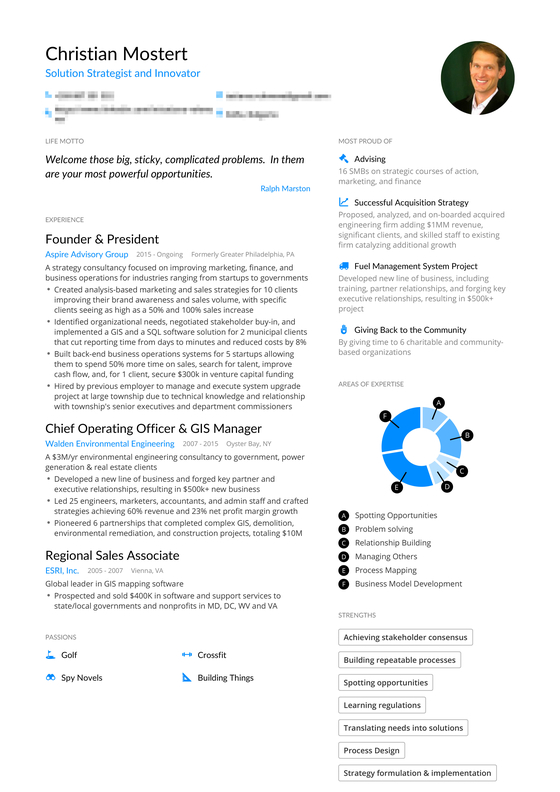
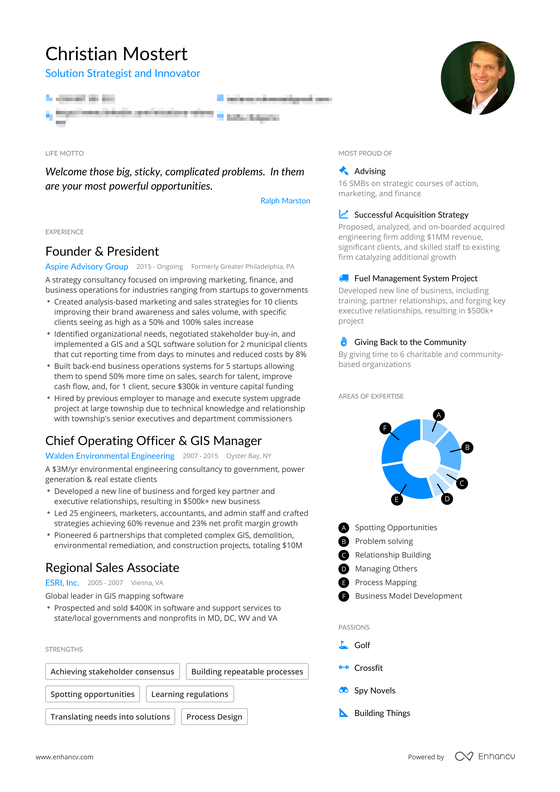
Update HR section and small tweaks

diff --git a/src/pages/successful-resumes.html b/src/pages/successful-resumes.html
@@ -70,7 +70,8 @@ metaImage: "/img/successful-resumes/share-images/sr_share.png"
     <div class="container">
         <div class="row">
             <div class="col-sm-12 text-center m-bottom-6">
-                <h2>What Experts Say</h2>
+                <h2>Expert Feedback on a Real Resume</h2>
+                <p class="experts-section-info">We asked a seasoned HR professional to review the resume of a real Enhancv user. The result was a peek inside her head and great insights regarding what she likes, and dislikes, about resumes.</p>
             </div>
         </div>
         <div class="row experts-say-wrapper">
@@ -136,7 +137,7 @@ metaImage: "/img/successful-resumes/share-images/sr_share.png"
 
                         {{>dot
                          color='#FF0030'
-                         x='45%'
+                         x='70%'
                          y='82%'
                          title=""
                          text="I appreciate this section a lot as it shows Christian’s human side and not just his professional background and achievements."
@@ -146,8 +147,8 @@ metaImage: "/img/successful-resumes/share-images/sr_share.png"
 
                         {{>dot
                          color='#FF0030'
-                         x='13%'
-                         y='94%'
+                         x='25%'
+                         y='96%'
                          title=""
                          text="I'm missing Christian’s educational background which could give me more context around his area of expertise, growth trajectory and network of contacts."
                          containerId='expert-resume'
@@ -186,8 +187,8 @@ metaImage: "/img/successful-resumes/share-images/sr_share.png"
                         Irena Boyadzhieva
                     </h1>
                     <div class="experts-text m-top-2 m-bottom-4">
-                        Professionally, I've grown and developed in the area of Talent Acquisition and People Management. I've had several fantastic jobs that gave me the opportunity to build and develop high performing teams. Personally, I'm a retired perfectionist who believes in living outside my comfort zone and surrounding myself with driven and inspiring people.
-                    </div>
+                        <p>Irena’s latest role is Talent Acquisition Manager at Experian – an innovative global fintech company. Previously, she worked in HR driving people development programs and building teams at several international organizations including HP, Aurubis, and Hewitt. Irena considers herself a ‘retired perfectionist’, believes in living outside her comfort zone, and surrounding herself with driven and inspiring people.</p>
+                   </div>
                     <div class="successful-resumes-share Grid Grid--alignCenter Grid--spaceBetween {{class}}">
                         <div class="Grid-cell--auto m-bottom-2">Learned something useful? Share the knowledge.</div>
                         <div class="Grid Grid-cell--auto">
@@ -285,7 +286,7 @@ metaImage: "/img/successful-resumes/share-images/sr_share.png"
         <div class="Grid">
             <div class="Grid Grid-cell Grid--alignCenter text-center">
                 <div class="Grid-cell">
-                    <h1 class="m-top-no">Subscribe for more inspired resumes</h1>
+                    <h1 class="m-top-no">Want more inspired resumes?</h1>
                     <form id="subscribe-form">
                         <div class="Grid Grid--justifyCenter">
                             <input

diff --git a/src/pages/successful-resumes/daniel-pietersen.html b/src/pages/successful-resumes/daniel-pietersen.html
@@ -91,11 +91,7 @@ metaImage: "/img/successful-resumes/share-images/ofthemonth-01.jpg"
                 </div>
 
                 <div class="successful-resume-cta m-top-3 m-bottom-4">
-                    {{#if famousResume}}
-                      <div class="bottom-xs cta-text text-center">Subscribe for more inspired resumes</div>
-                    {{else}}
-                       <div class="bottom-xs cta-text text-center">Subscribe to get new resumes from inspired, confident users delivered to your inbox.</div>
-                    {{/if }}
+                    <div class="bottom-xs cta-text text-center">Want more inspired resumes?</div>
                     <form id="subscribe-form">
                         <div class="Grid">
                             <input

diff --git a/src/partials/successful-resumes-template.html b/src/partials/successful-resumes-template.html
@@ -102,11 +102,7 @@
         </div>
 
         <div class="successful-resume-cta">
-            {{#if famousResume}}
-              <div class="bottom-xs cta-text text-center">Subscribe for more inspired resumes</div>
-            {{else}}
-               <div class="bottom-xs cta-text text-center">Subscribe to get new resumes from inspired, confident users delivered to your inbox.</div>
-            {{/if }}
+            <div class="bottom-xs cta-text text-center">Want more inspired resumes?</div>
             <form id="subscribe-form">
                 <div class="Grid">
                     <input

diff --git a/src/partials/successful-resumes-carousel.html b/src/partials/successful-resumes-carousel.html
@@ -3,10 +3,10 @@
         <div class="row">
             <div class="col-sm-12">
                 <h2 class="text-center m-top-6 hidden-xs">
-                    View some of our top resumes
+                    Top resumes from real Enhancv users
                 </h2>
                 <h3 class="text-center m-top-4 hidden-sm hidden-md hidden-lg">
-                    View some of our top resumes
+                    Top resumes from real Enhancv users
                 </h3>
 
                 <div class="hidden resumes-hidden-wrapper">

diff --git a/src/assets/scss/pages/successful-resumes/experts-say.scss b/src/assets/scss/pages/successful-resumes/experts-say.scss
@@ -3,6 +3,15 @@
 	color: #ffffff;
     padding: ($spacer * 6) 0 ($spacer * 10) 0;
 
+    .experts-section-info {
+        width: 650px;
+        margin: auto;
+
+        @media (max-width: $screen-xs-max) {
+            width: 100%;
+        }
+    }
+
 	.experts-hired-container {
 		padding-left: 30px;
 		padding-top: $spacer*2;
